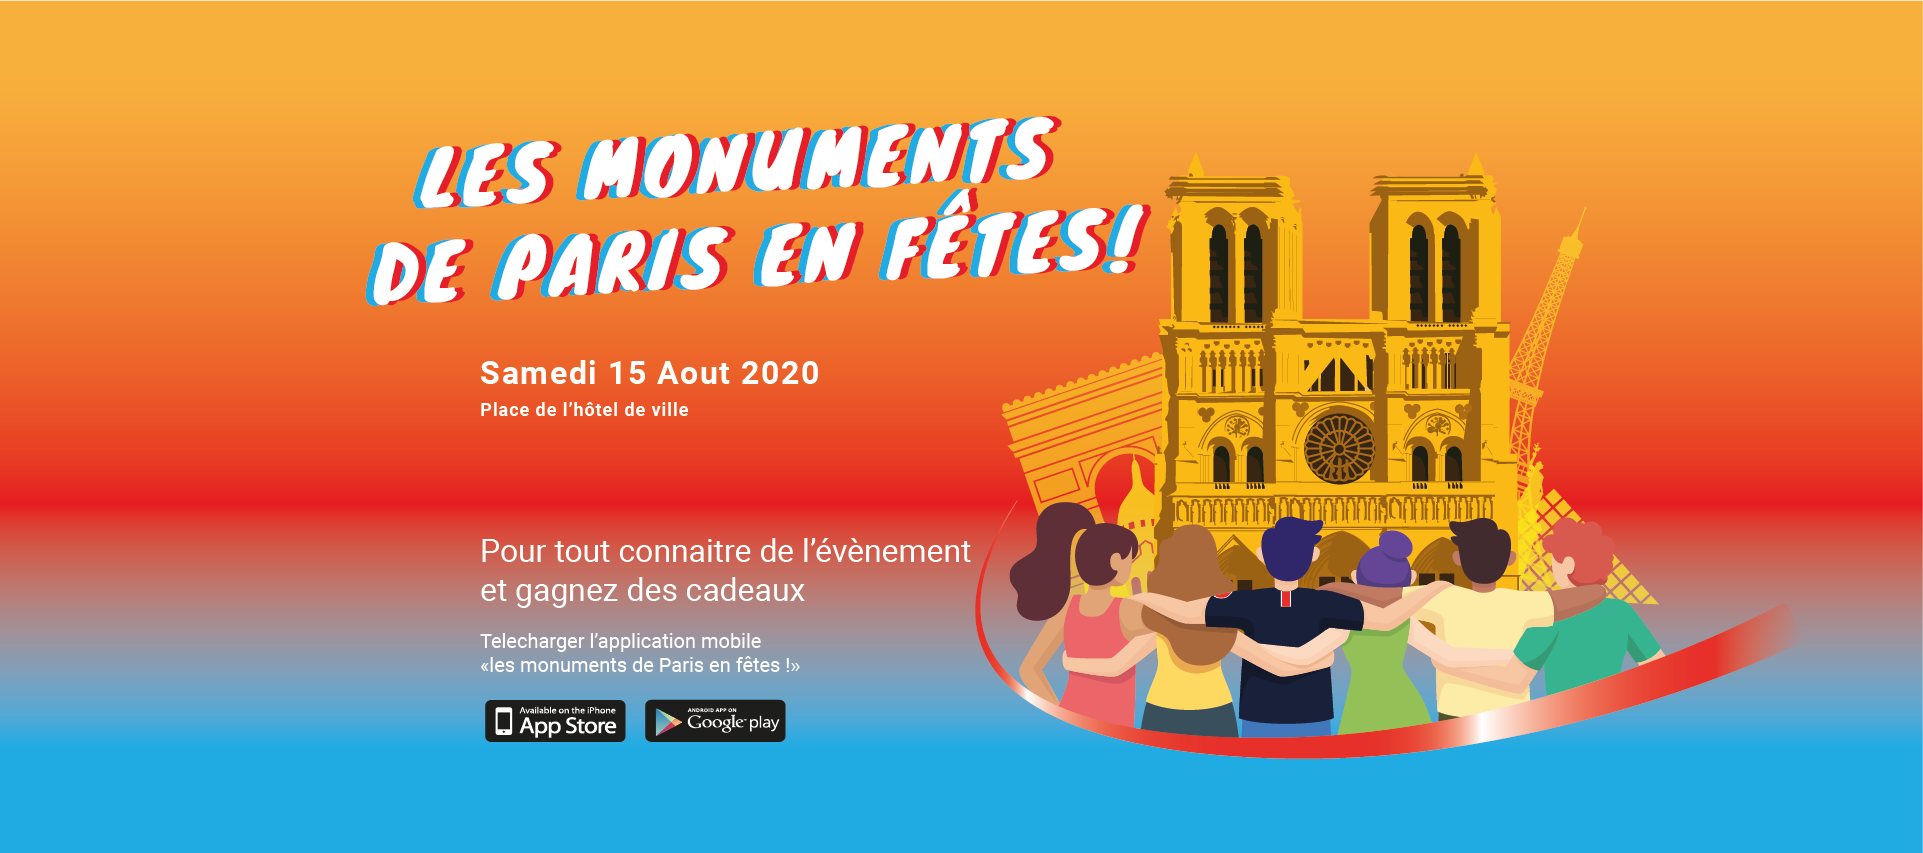
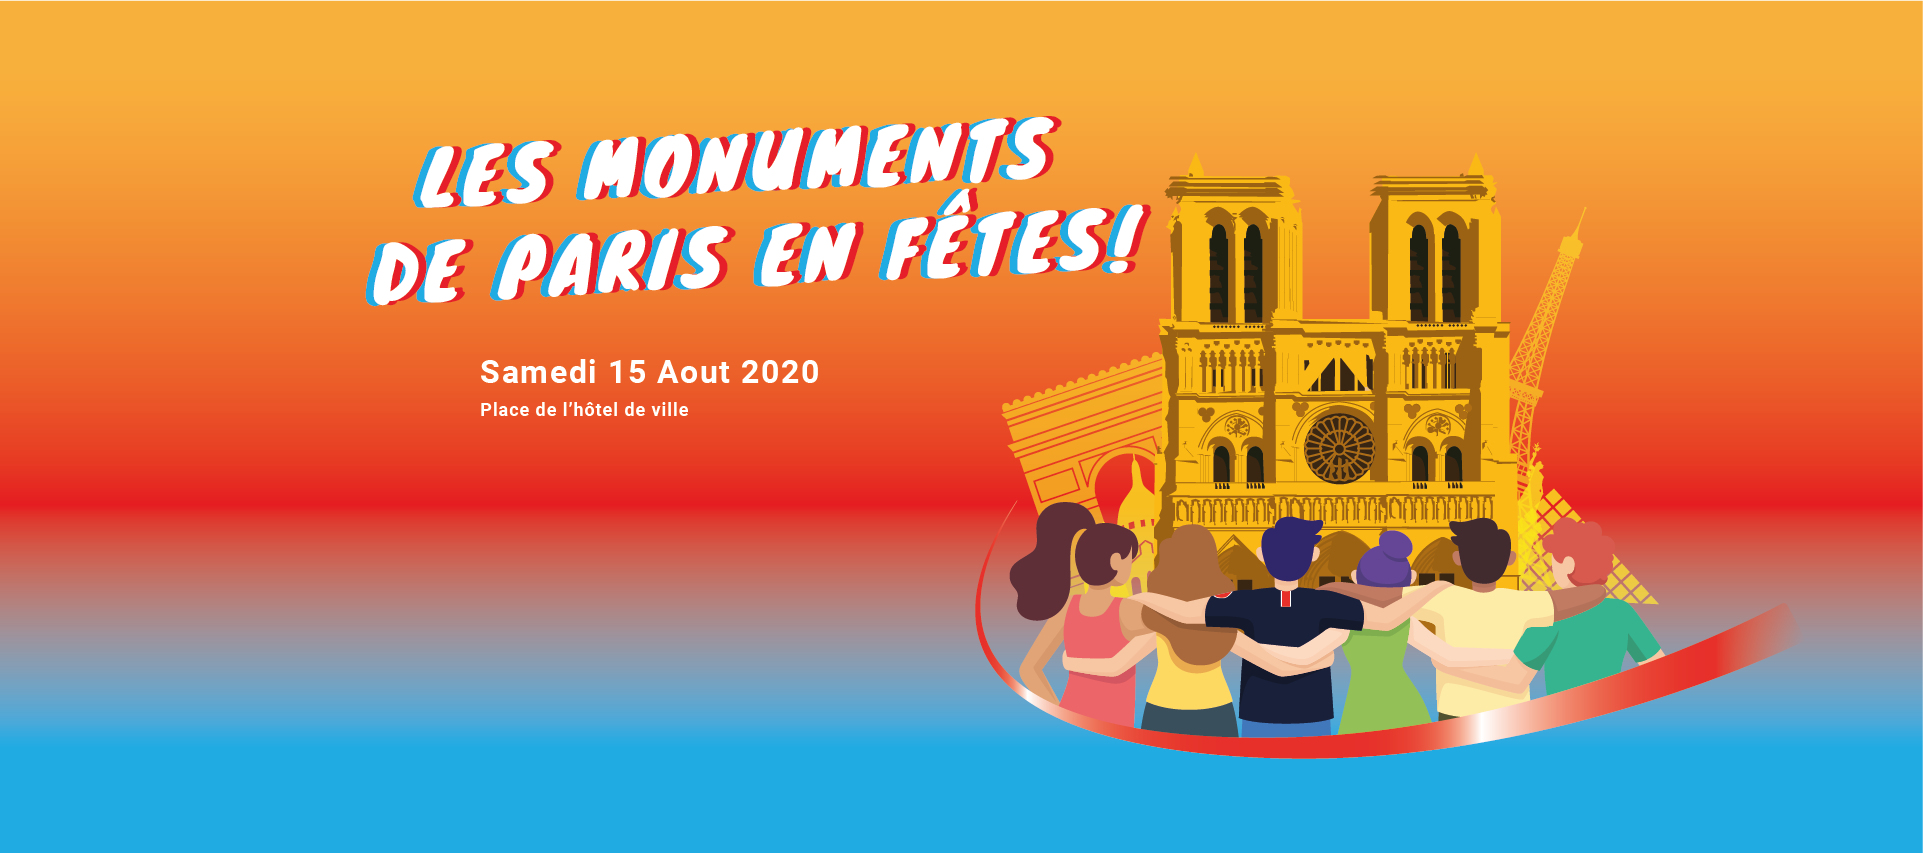
yes

diff --git a/index.html b/index.html
@@ -65,6 +65,32 @@
 
             </nav>
 
+            <div class="container">
+
+                <div class="row">
+
+                    <div class="col-md-12">
+
+                        
+                        <p class="soustitre2">Pour tout connaitre de l’évènement <br> et gagnez des cadeaux</p>
+                        <p class="soustitre3">Telecharger l’application mobile <br> «les monuments de Paris en fêtes !»</p>
+                        
+                
+                        <a href="../html-link.htm">
+                            <img class="flotte" src="../les_monuments_de_paris_en_fete/resources/images/APPLE-STORE.png" alt="IOS">
+                        </a>
+
+                        <a href="../html-link.htm">
+                            <img class="flotte" src="../les_monuments_de_paris_en_fete/resources/images/google-play.png" alt="Playstore">
+                        </a>
+                        
+
+                    </div>
+
+                </div>
+
+            </div>
+
 
         </header>
 
